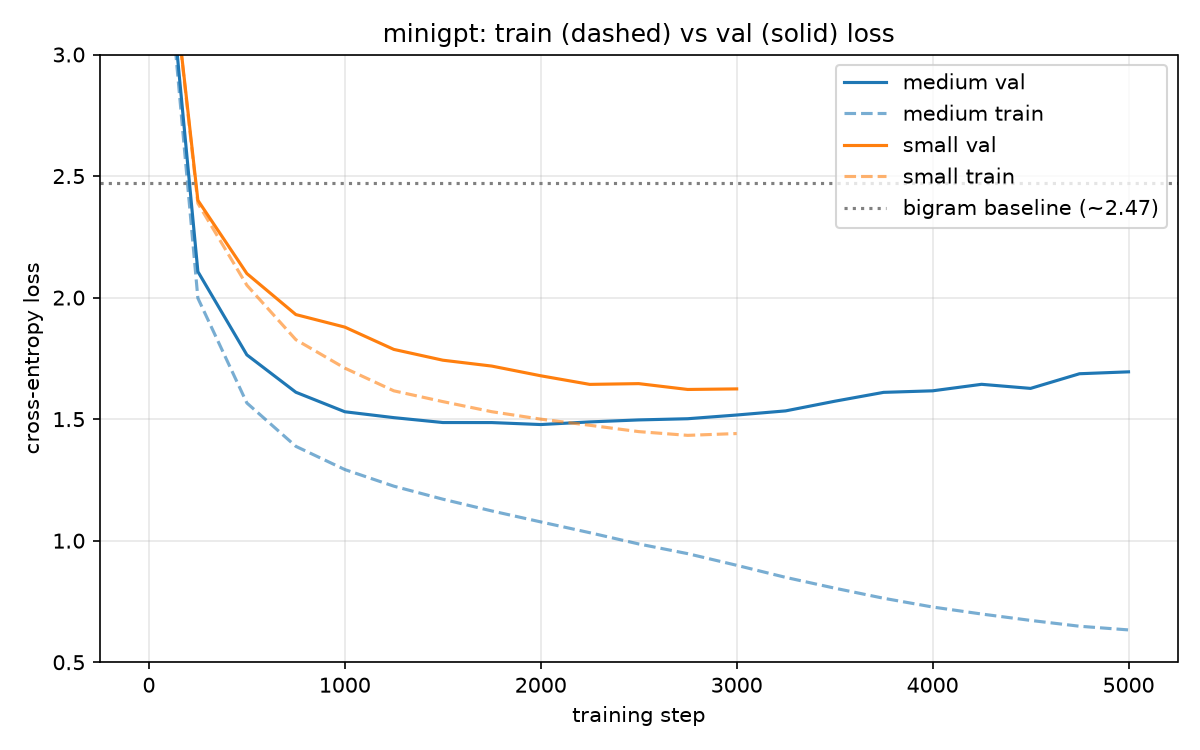
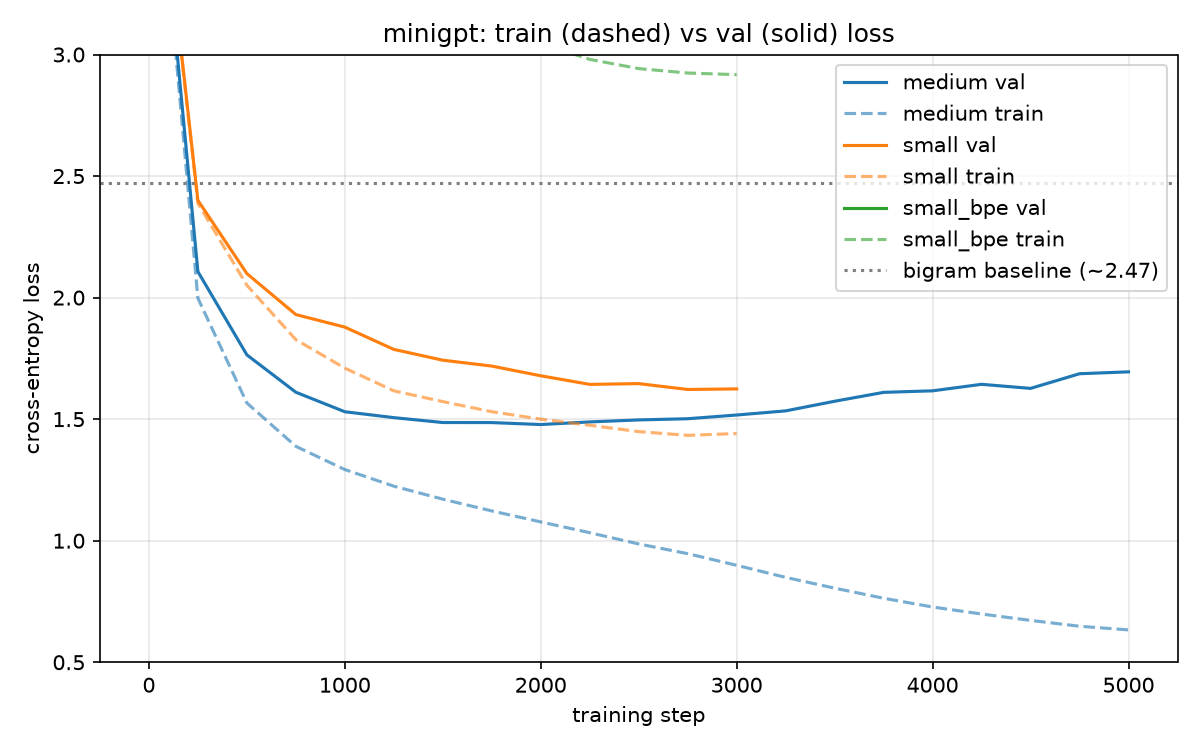
Added Phase 4

Changed region(s): [[0.7092, 0.2453, 0.9867, 0.3987], [0.555, 0.092, 0.6167, 0.1227], [0.4933, 0.0613, 0.5242, 0.092]]

diff --git a/GPT.py b/GPT.py
@@ -20,6 +20,9 @@ PRESETS = {
     # Effective batch = batch_size * grad_accum = 64, but only 16 sequences sit in GPU memory at once.
     "medium": dict(batch_size=16, grad_accum=4, block_size=256, n_embd=384, n_head=6, n_layer=6,
                    dropout=0.2, max_iters=5000, eval_iters=100),
+    # Same model, but more dropout and stop near the point where val loss bottomed out (~step 2000)
+    "medium_reg": dict(batch_size=16, grad_accum=4, block_size=256, n_embd=384, n_head=6, n_layer=6,
+                       dropout=0.3, max_iters=2500, eval_iters=100),
 }
 SIZE = os.environ.get("MINIGPT_SIZE", "small")
 if SIZE not in PRESETS:
@@ -42,14 +45,23 @@ warmup_iters = 100
 grad_clip = 1.0
 device = "cuda" if torch.cuda.is_available() else "cpu"
 
+# Tokenizer: MINIGPT_TOK=char (default, 65 tokens) or bpe (needs prepare_bpe.py first)
+TOK = os.environ.get("MINIGPT_TOK", "char")
+if TOK not in ("char", "bpe"):
+    raise SystemExit(f"MINIGPT_TOK must be 'char' or 'bpe', got '{TOK}'")
+SUFFIX = "" if TOK == "char" else "_bpe"
+
 HERE = os.path.dirname(os.path.abspath(__file__))
-CKPT_PATH = os.path.join(HERE, f"ckpt_{SIZE}.pt")  # one checkpoint per preset
-LOG_PATH = os.path.join(HERE, f"log_{SIZE}.csv")   # loss history for plotting
+CKPT_PATH = os.path.join(HERE, f"ckpt_{SIZE}{SUFFIX}.pt")  # one checkpoint per preset + tokenizer
+LOG_PATH = os.path.join(HERE, f"log_{SIZE}{SUFFIX}.csv")   # loss history for plotting
 
 # ---------------- data ----------------
-with open(os.path.join(HERE, "meta.pkl"), "rb") as f:
+with open(os.path.join(HERE, f"meta{SUFFIX}.pkl"), "rb") as f:
     meta = pickle.load(f)
 vocab_size, itos = meta["vocab_size"], meta["itos"]
+# Loss is measured per TOKEN, and BPE tokens cover several characters each. To compare fairly we
+# convert to bits per character: bpc = loss * (tokens / characters) / ln(2). Char-level: ratio = 1.
+val_tokens_per_char = meta.get("val_tokens_per_char", 1.0)
 
 
 def load(name):
@@ -57,7 +69,7 @@ def load(name):
     return torch.from_numpy(arr.astype(np.int64))
 
 
-train_data, val_data = load("train.bin"), load("val.bin")
+train_data, val_data = load(f"train{SUFFIX}.bin"), load(f"val{SUFFIX}.bin")
 
 
 def get_batch(split):
@@ -190,8 +202,9 @@ if __name__ == "__main__":
 
     print(f"preset: {SIZE} | context {block_size} | {n_layer} layers x {n_head} heads | embd {n_embd} "
           f"| dropout {dropout} | batch {batch_size} x {grad_accum} accum")
+    print(f"tokenizer: {TOK} | vocab size {vocab_size} | val tokens per character {val_tokens_per_char:.3f}")
     with open(LOG_PATH, "w") as f:
-        f.write("step,train,val\n")
+        f.write("step,train,val,val_bpc\n")
 
     best_val = float("inf")
     t0 = time.time()
@@ -202,10 +215,11 @@ if __name__ == "__main__":
 
         if it % eval_interval == 0:
             losses = estimate_loss(model)
+            val_bpc = losses["val"] * val_tokens_per_char / math.log(2)
             print(f"step {it:4d} | train {losses['train']:.4f} | val {losses['val']:.4f} "
-                  f"| lr {lr:.5f} | {time.time() - t0:.0f}s elapsed")
+                  f"| val bpc {val_bpc:.3f} | lr {lr:.5f} | {time.time() - t0:.0f}s elapsed")
             with open(LOG_PATH, "a") as f:
-                f.write(f"{it},{losses['train']:.4f},{losses['val']:.4f}\n")
+                f.write(f"{it},{losses['train']:.4f},{losses['val']:.4f},{val_bpc:.4f}\n")
             if losses["val"] < best_val:
                 best_val = losses["val"]
                 torch.save({"model": model.state_dict()}, CKPT_PATH)

diff --git a/prepare_bpe.py b/prepare_bpe.py
@@ -1,0 +1,72 @@
+"""Day 4: train a BPE tokenizer on TinyShakespeare and write train_bpe.bin / val_bpe.bin.
+
+Run prepare.py first (it creates input.txt and meta.pkl).
+Usage:  python3 prepare_bpe.py [vocab_size]     (default 512)
+"""
+import os
+import pickle
+import sys
+import time
+
+import numpy as np
+
+from bpe import build_vocab, encode, train_bpe
+
+HERE = os.path.dirname(os.path.abspath(__file__))
+VOCAB_SIZE = int(sys.argv[1]) if len(sys.argv) > 1 else 512
+
+with open(os.path.join(HERE, "input.txt"), "r", encoding="utf-8") as f:
+    text = f.read()
+with open(os.path.join(HERE, "meta.pkl"), "rb") as f:
+    char_meta = pickle.load(f)
+stoi, char_itos = char_meta["stoi"], char_meta["itos"]
+base_vocab = char_meta["vocab_size"]  # 65 characters
+
+# Same 90/10 split as prepare.py, done on the raw text BEFORE learning merges, so the
+# tokenizer never sees validation text (otherwise val loss would be slightly flattered).
+n = int(0.9 * len(text))
+train_text, val_text = text[:n], text[n:]
+train_ids = [stoi[c] for c in train_text]
+val_ids = [stoi[c] for c in val_text]
+
+n_merges = VOCAB_SIZE - base_vocab
+print(f"Learning {n_merges} merges (vocab {base_vocab} -> {VOCAB_SIZE}) on {len(train_ids):,} characters...")
+t0 = time.time()
+train_tok, merges = train_bpe(train_ids, base_vocab, n_merges)
+print(f"Done in {time.time() - t0:.0f}s")
+val_tok = encode(val_ids, merges, base_vocab)
+
+itos = build_vocab(char_itos, merges, base_vocab)
+vocab_size = base_vocab + len(merges)
+
+# --- what did it learn? ---
+print(f"\nTrain: {len(train_text):,} chars -> {len(train_tok):,} tokens "
+      f"({len(train_text) / len(train_tok):.2f} chars per token)")
+print(f"Val:   {len(val_text):,} chars -> {len(val_tok):,} tokens")
+print("\nFirst 15 merges (most frequent pairs first):")
+for k in range(min(15, len(merges))):
+    a, b = merges[k]
+    print(f"  {itos[a]!r} + {itos[b]!r} -> {itos[base_vocab + k]!r}")
+print("\nLast 10 merges (rarer, longer chunks):")
+for k in range(max(0, len(merges) - 10), len(merges)):
+    print(f"  -> {itos[base_vocab + k]!r}")
+demo = "ROMEO: Wherefore art thou"
+demo_tok = encode([stoi[c] for c in demo], merges, base_vocab)
+print(f"\n{demo!r} becomes {len(demo_tok)} tokens: {[itos[i] for i in demo_tok]}")
+
+# --- save ---
+np.array(train_tok, dtype=np.uint16).tofile(os.path.join(HERE, "train_bpe.bin"))
+np.array(val_tok, dtype=np.uint16).tofile(os.path.join(HERE, "val_bpe.bin"))
+with open(os.path.join(HERE, "meta_bpe.pkl"), "wb") as f:
+    pickle.dump(
+        {
+            "vocab_size": vocab_size,
+            "itos": itos,
+            "stoi": stoi,                  # character -> id (used to encode prompts)
+            "merges": merges,
+            "base_vocab": base_vocab,
+            "val_tokens_per_char": len(val_tok) / len(val_text),  # for bits-per-character
+        },
+        f,
+    )
+print("\nSaved train_bpe.bin, val_bpe.bin, meta_bpe.pkl")

diff --git a/bpe.py b/bpe.py
@@ -1,0 +1,53 @@
+"""A minimal BPE (byte-pair encoding) tokenizer, written from scratch.
+
+Idea: start with one token per character. Repeatedly find the most frequent pair of
+neighbouring tokens and replace every occurrence with a brand-new token. Each such
+replacement is called a "merge". After N merges the vocabulary is (characters + N).
+"""
+from collections import Counter
+
+
+def merge_pair(ids, pair, new_id):
+    """Replace every non-overlapping occurrence of `pair` in `ids` with `new_id`."""
+    a, b = pair
+    out = []
+    i, n = 0, len(ids)
+    while i < n:
+        if i < n - 1 and ids[i] == a and ids[i + 1] == b:
+            out.append(new_id)
+            i += 2
+        else:
+            out.append(ids[i])
+            i += 1
+    return out
+
+
+def train_bpe(ids, base_vocab, n_merges, log_every=50):
+    """Learn `n_merges` merges from a list of token ids. Returns (merged ids, merges)."""
+    merges = []
+    for k in range(n_merges):
+        counts = Counter(zip(ids, ids[1:]))   # how often does each neighbouring pair occur?
+        if not counts:
+            break
+        pair = max(counts, key=counts.get)    # most frequent pair
+        new_id = base_vocab + k               # the next free token id
+        ids = merge_pair(ids, pair, new_id)
+        merges.append(pair)
+        if log_every and (k + 1) % log_every == 0:
+            print(f"  merge {k + 1}/{n_merges} | tokens left: {len(ids):,}")
+    return ids, merges
+
+
+def encode(ids, merges, base_vocab):
+    """Apply the learned merges, in the order they were learned, to new text (as char ids)."""
+    for k, pair in enumerate(merges):
+        ids = merge_pair(ids, pair, base_vocab + k)
+    return ids
+
+
+def build_vocab(char_itos, merges, base_vocab):
+    """Map every token id to the text it stands for (a merged token = its two parts joined)."""
+    itos = dict(char_itos)
+    for k, (a, b) in enumerate(merges):
+        itos[base_vocab + k] = itos[a] + itos[b]
+    return itos

diff --git a/plot_losses.py b/plot_losses.py
@@ -5,6 +5,7 @@ Output: loss_curves.png
 """
 import csv
 import glob
+import math
 import os
 
 import matplotlib
@@ -17,15 +18,19 @@ logs = sorted(glob.glob(os.path.join(HERE, "log_*.csv")))
 if not logs:
     raise SystemExit("No log_*.csv found. Run gpt.py first.")
 
+runs = []
 plt.figure(figsize=(8, 5))
 for path in logs:
     name = os.path.basename(path)[len("log_"):-len(".csv")]
-    steps, train, val = [], [], []
+    steps, train, val, bpc = [], [], [], []
     with open(path) as f:
         for row in csv.DictReader(f):
             steps.append(int(row["step"]))
             train.append(float(row["train"]))
             val.append(float(row["val"]))
+            # older logs have no val_bpc column: those runs are character-level
+            bpc.append(float(row["val_bpc"]) if "val_bpc" in row else float(row["val"]) / math.log(2))
+    runs.append((name, steps, bpc))
     line, = plt.plot(steps, val, label=f"{name} val")
     plt.plot(steps, train, "--", color=line.get_color(), alpha=0.6, label=f"{name} train")
 
@@ -40,3 +45,18 @@ plt.tight_layout()
 out = os.path.join(HERE, "loss_curves.png")
 plt.savefig(out, dpi=150)
 print("Saved", out)
+
+# Second figure: validation bits-per-character, the fair way to compare different tokenizers
+plt.figure(figsize=(8, 5))
+for name, steps, bpc in runs:
+    plt.plot(steps, bpc, label=f"{name} (best {min(bpc):.3f})")
+plt.xlabel("training step")
+plt.ylabel("validation bits per character (lower is better)")
+plt.title("minigpt: validation bits per character")
+plt.ylim(1.6, 3.5)
+plt.legend()
+plt.grid(alpha=0.3)
+plt.tight_layout()
+out2 = os.path.join(HERE, "bpc_curves.png")
+plt.savefig(out2, dpi=150)
+print("Saved", out2)

diff --git a/sample.py b/sample.py
@@ -3,6 +3,8 @@
 Examples:
     python3 sample.py
     python3 sample.py --prompt "ROMEO:" --temp 0.7 --top_k 20 --n 600
+    MINIGPT_SIZE=medium python3 sample.py          # a different preset
+    MINIGPT_TOK=bpe python3 sample.py              # a BPE-trained model
 """
 import argparse
 
@@ -10,7 +12,7 @@ import torch
 import torch.nn.functional as F
 
 # Reuses the model definition and config from gpt.py (training only runs when gpt.py is executed directly)
-from GPT import CKPT_PATH, GPT, block_size, device, meta
+from gpt import CKPT_PATH, GPT, TOK, block_size, device, meta
 
 parser = argparse.ArgumentParser()
 parser.add_argument("--prompt", type=str, default="\n", help="text to start from")
@@ -23,7 +25,7 @@ args = parser.parse_args()
 if args.seed is not None:
     torch.manual_seed(args.seed)
 
-stoi, itos = meta["stoi"], meta["itos"]
+stoi, itos = meta["stoi"], meta["itos"]  # for BPE, stoi is still character -> id; itos is token -> text
 
 model = GPT().to(device)
 ckpt = torch.load(CKPT_PATH, map_location=device)
@@ -32,6 +34,10 @@ model.eval()
 
 # Encode the prompt, skipping any character the tokenizer has never seen
 ids = [stoi[c] for c in args.prompt if c in stoi] or [0]
+if TOK == "bpe":
+    from bpe import encode  # merge the prompt's characters into BPE tokens
+
+    ids = encode(ids, meta["merges"], meta["base_vocab"])
 idx = torch.tensor([ids], dtype=torch.long, device=device)
 
 with torch.no_grad():
